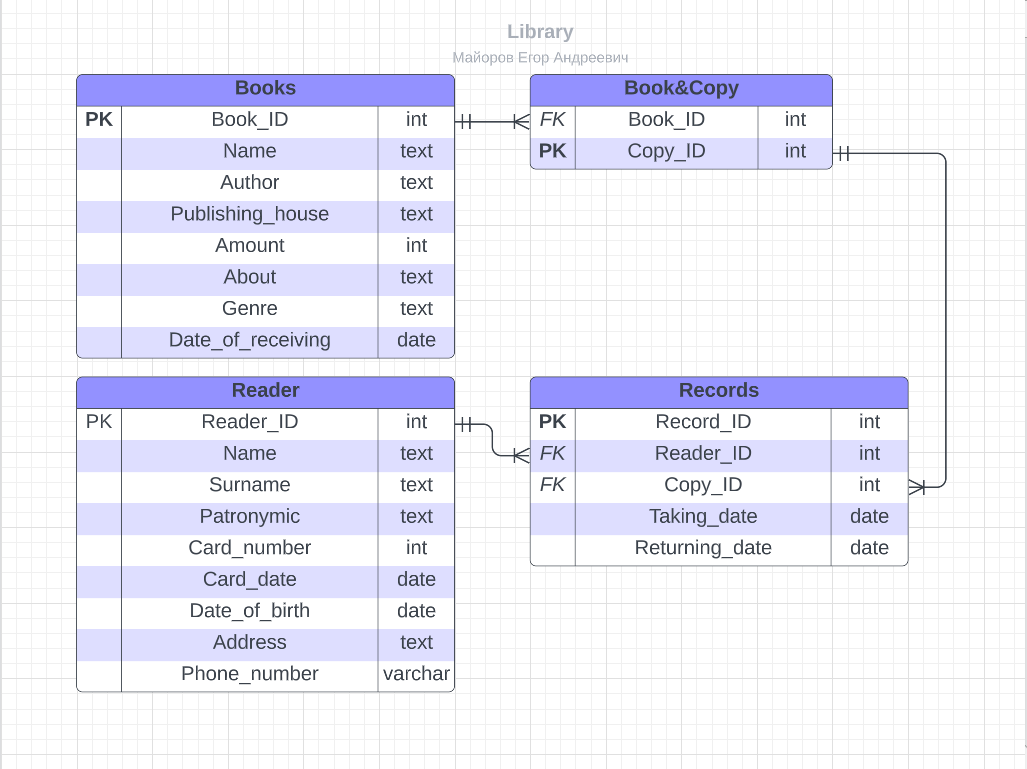
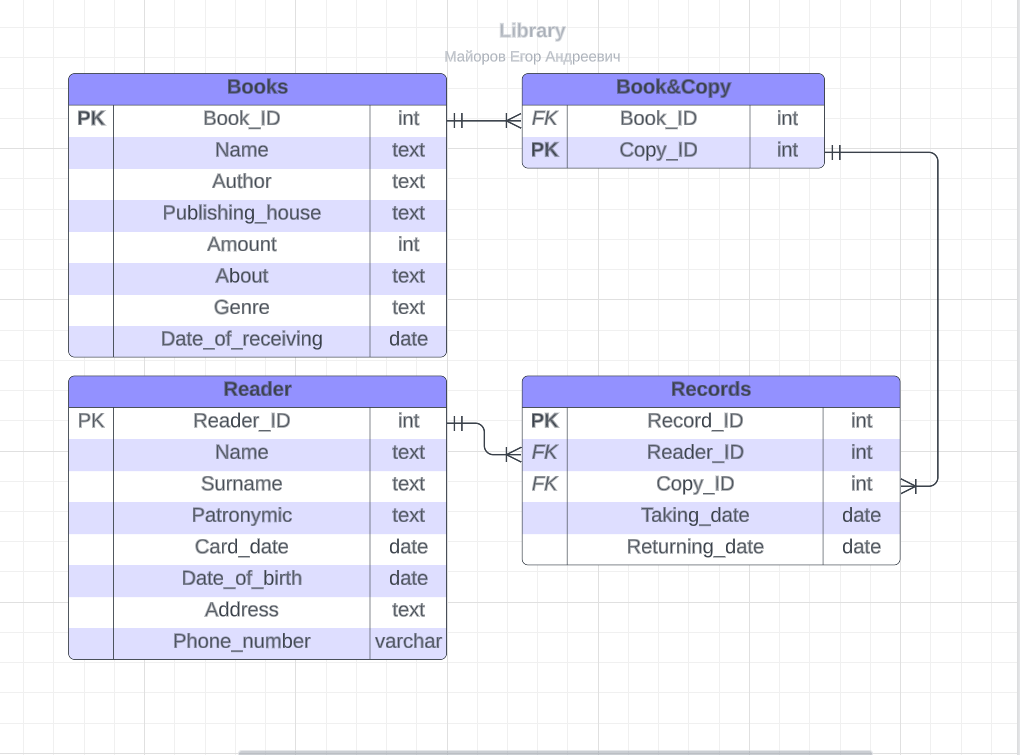
FUCK CARD NUMBER

diff --git a/src/main/resources/views/readers.html b/src/main/resources/views/readers.html
@@ -64,7 +64,7 @@
     <td th:text="${rd.surname}">Иванович</td>
     <td th:text="${rd.name}">Иван</td>
     <td th:text="${rd.patronymic}">Иванов</td>
-    <td th:text="${rd.card_number}">1000000</td>
+    <td th:text="${rd.reader_id}">1000000</td>
 <!--    <td th:text="${rd.card_date}">01-01-1990</td>-->
 <!--    <td th:text="${rd.date_of_birth}">01-01-1970</td>-->
 <!--    <td th:text="${rd.address}">Москва</td>-->

diff --git a/src/main/java/ru/msu/cmc/webprac/tables/Reader.java b/src/main/java/ru/msu/cmc/webprac/tables/Reader.java
@@ -30,10 +30,6 @@ public class Reader {
     @Column(name = "patronymic")
     private String patronymic;
 
-    @GeneratedValue(strategy = GenerationType.IDENTITY)
-    @Column(name = "card_number")
-    private long card_number;
-
     @Column(nullable = false, name = "card_date")
     @NonNull
     private Date card_date;
@@ -76,7 +72,6 @@ public class Reader {
         return Objects.equals(reader_id, other.reader_id)
                 && name.equals(other.name)
                 && surname.equals(other.surname)
-                && patronymic.equals(other.patronymic)
-                && Objects.equals(card_number, other.card_number);
+                && patronymic.equals(other.patronymic);
     }
 }
